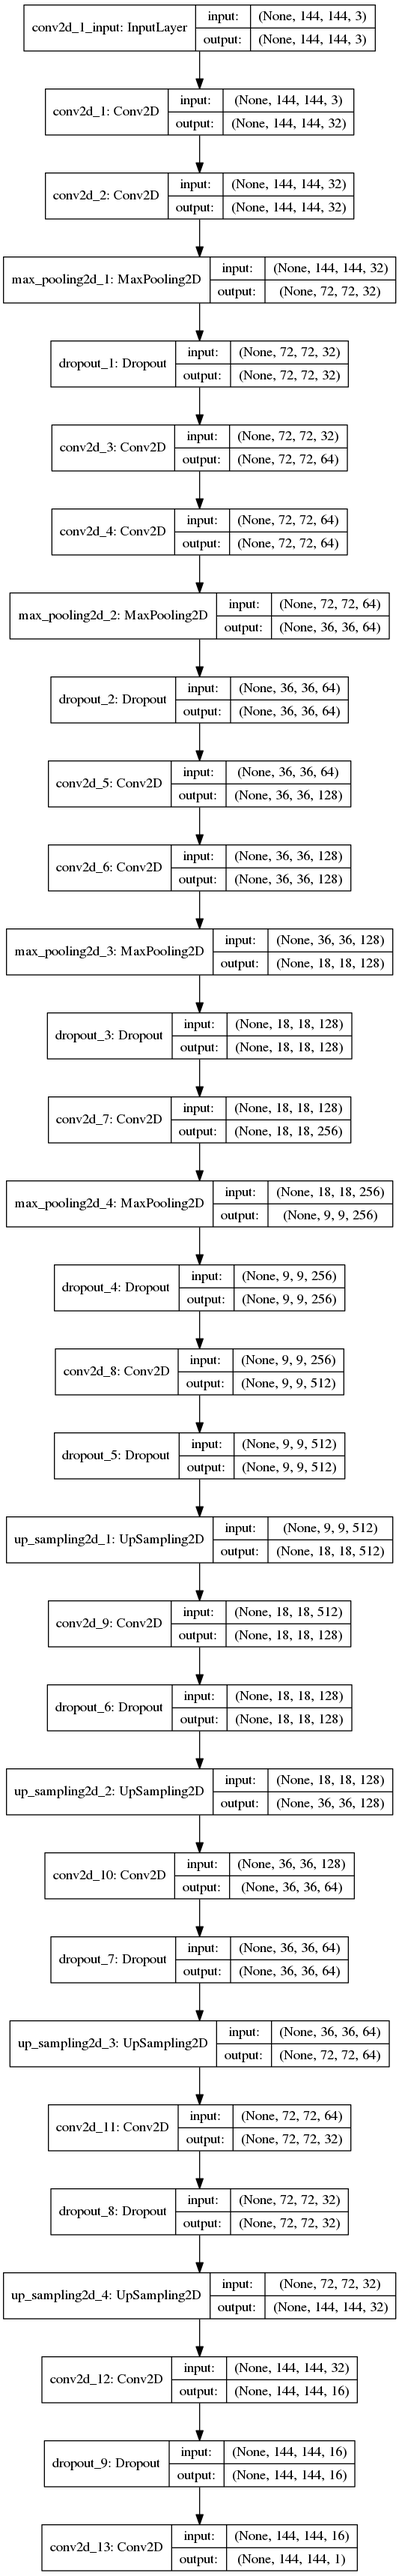
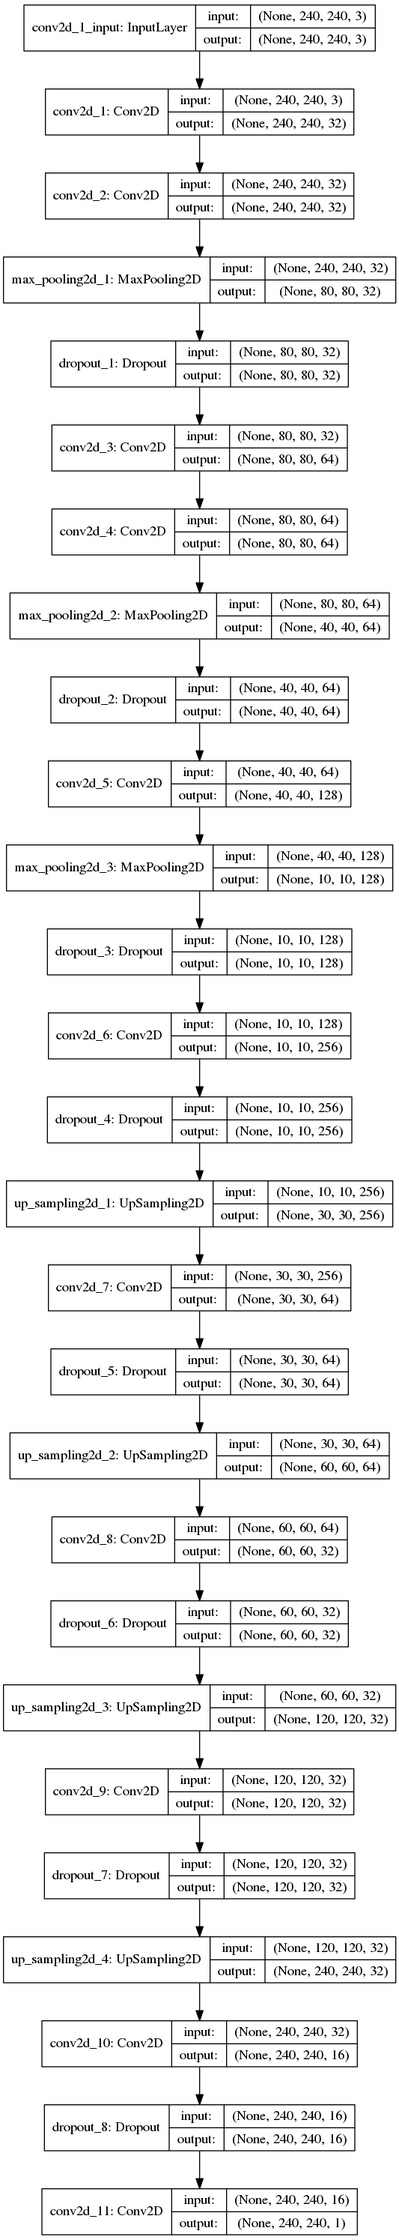
New structure
Former-commit-id: 38d1d3abaa92d6a5b5b44f7e895b627327593ff4
Former-commit-id: 830113c9fb7a0c84e0aed4c9196a7afd20a455ec
Former-commit-id: c99dcc11d5ecf6792d1dd97b469779d04c4c5f71
Former-commit-id: e0ee2eb65043966521c3755ca7922c21068e83fb

diff --git a/deconv_line/net.py b/deconv_line/net.py
@@ -11,8 +11,8 @@ import cv2
 
 K.set_image_data_format('channels_last')  # TF dimension ordering in this code
 
-nn_img_side = 144
-nn_out_size = 144
+nn_img_side = 240
+nn_out_size = 240
 
 ### Rates ###
 # 27.5 ms - processing time gpu
@@ -62,7 +62,7 @@ def get_unet():
 
 	model.add(Conv2D(32, (3, 3), activation='relu', padding='same', input_shape=(nn_img_side, nn_img_side, 3)))
 	model.add(Conv2D(32, (3, 3), activation='relu', padding='same'))
-	model.add(MaxPooling2D(pool_size=(2, 2)))
+	model.add(MaxPooling2D(pool_size=(3, 3)))
 	model.add(Dropout(0.25))
 
 	model.add(Conv2D(64, (3, 3), activation='relu', padding='same'))
@@ -70,24 +70,24 @@ def get_unet():
 	model.add(MaxPooling2D(pool_size=(2, 2)))
 	model.add(Dropout(0.25))
 
+	# model.add(Conv2D(128, (3, 3), activation='relu', padding='same'))
 	model.add(Conv2D(128, (3, 3), activation='relu', padding='same'))
-	model.add(Conv2D(128, (3, 3), activation='relu', padding='same'))
-	model.add(MaxPooling2D(pool_size=(2, 2)))
+	model.add(MaxPooling2D(pool_size=(4, 4)))
 	model.add(Dropout(0.25))
+
+	# model.add(Conv2D(256, (3, 3), activation='relu', padding='same'))
+	# model.add(MaxPooling2D(pool_size=(2, 2)))
+	# model.add(Dropout(0.25))
 
 	model.add(Conv2D(256, (3, 3), activation='relu', padding='same'))
-	model.add(MaxPooling2D(pool_size=(2, 2)))
 	model.add(Dropout(0.25))
 
-	model.add(Conv2D(512, (3, 3), activation='relu', padding='same'))
-	model.add(Dropout(0.25))
-
-	model.add(UpSampling2D(size=(2, 2)))
-	model.add(Conv2D(128, (3, 3), activation='relu', padding='same'))
-	model.add(Dropout(0.25))
-
-	model.add(UpSampling2D(size=(2, 2)))
+	model.add(UpSampling2D(size=(3, 3)))
 	model.add(Conv2D(64, (3, 3), activation='relu', padding='same'))
+	model.add(Dropout(0.25))
+
+	model.add(UpSampling2D(size=(2, 2)))
+	model.add(Conv2D(32, (3, 3), activation='relu', padding='same'))
 	model.add(Dropout(0.25))
 
 	model.add(UpSampling2D(size=(2, 2)))
@@ -100,7 +100,7 @@ def get_unet():
 
 	model.add(Conv2D(1, (1, 1), activation='hard_sigmoid'))
 
-	model.compile(optimizer=Adam(lr=1e-4), loss=iou_loss, metrics=[binary_crossentropy])
+	model.compile(optimizer=Adam(lr=1e-5), loss=iou_loss, metrics=[binary_crossentropy])
 	
 	print_summary(model)
 	plot_model(model, show_shapes=True)

diff --git a/deconv_line/execute.py b/deconv_line/execute.py
@@ -36,6 +36,8 @@ def get_mask(frame, model):
 
 def execute_model():
 
+	new_shape = (320, 240)
+
 	if args.pic:
 		frame = cv2.imread(args.filepath)
 		if frame is None:
@@ -51,15 +53,13 @@ def execute_model():
 
 		mask = get_mask(frame, model)
 
-		frame = cv2.resize(frame, (320, 240), interpolation = cv2.INTER_CUBIC)
-		mask  = cv2.resize(mask, (320, 240), interpolation = cv2.INTER_NEAREST)
+		frame = cv2.resize(frame, new_shape, interpolation = cv2.INTER_CUBIC)
+		mask  = cv2.resize(mask, new_shape, interpolation = cv2.INTER_NEAREST)
 
 		frame[np.where((mask!=[0,0,0]).all(axis=2))] = (0,255,0)
-
 		frame = np.hstack((mask,frame))
 
 		cv2.imshow('frame',frame)
-		# cv2.imshow('mask',mask)
 		cv2.waitKey(0)
 		exit(1)
 
@@ -88,10 +88,15 @@ def execute_model():
 
 				start_mask = time.time()
 				mask = get_mask(frame, model)
+
+				frame = cv2.resize(frame, new_shape, interpolation = cv2.INTER_CUBIC)
+				mask  = cv2.resize(mask, new_shape, interpolation = cv2.INTER_NEAREST)
+				frame[np.where((mask!=[0,0,0]).all(axis=2))] = (0,255,0)
+				frame = np.hstack((mask,frame))
+
 				mask_obtain_time += (time.time() - start_mask)
 				
 				cv2.imshow('frame',frame)
-				cv2.imshow('mask',mask)
 				if cv2.waitKey(1) & 0xFF == ord('q'):
 					break
 
@@ -107,9 +112,13 @@ def execute_model():
 					exit(1)
 
 				mask = get_mask(frame, model)
+
+				frame = cv2.resize(frame, new_shape, interpolation = cv2.INTER_CUBIC)
+				mask  = cv2.resize(mask, new_shape, interpolation = cv2.INTER_NEAREST)
+				frame[np.where((mask!=[0,0,0]).all(axis=2))] = (0,255,0)
+				frame = np.hstack((mask,frame))
 				
 				cv2.imshow('frame',frame)
-				cv2.imshow('mask',mask)
 				if cv2.waitKey(1) & 0xFF == ord('q'):
 					break
 

diff --git a/deconv_line/train.py b/deconv_line/train.py
@@ -55,7 +55,7 @@ def train_and_predict():
 	print('Fitting model...')
 	print('-'*30)
 
-	model.fit(imgs_train, imgs_mask_train, batch_size=32, epochs=7000, verbose=1, shuffle=True, validation_split=0, 
+	model.fit(imgs_train, imgs_mask_train, batch_size=8, epochs=7000, verbose=1, shuffle=True, validation_split=0, 
 				callbacks=[ModelCheckpoint('weights_best.h5', monitor='loss', save_best_only=True, save_weights_only=True, verbose=1)])
 
 if __name__ == '__main__':
